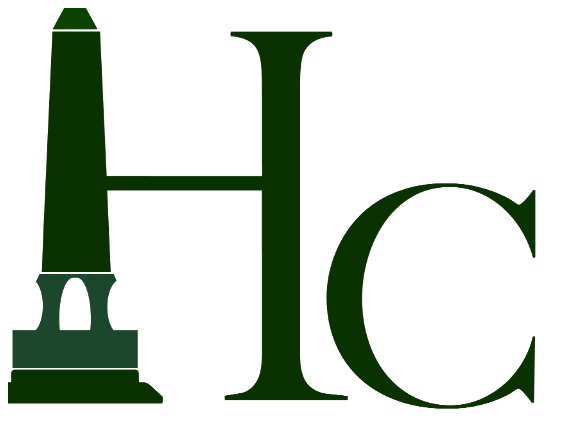
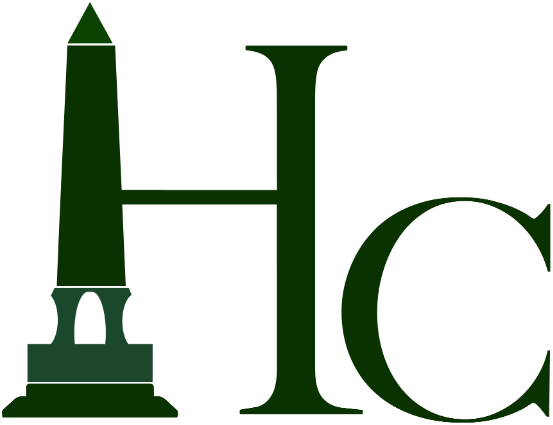
Fix transparent monogram asset

diff --git a/app/components/site/SiteHeader.tsx b/app/components/site/SiteHeader.tsx
@@ -83,7 +83,8 @@ export function SiteHeader({ sticky = true }: SiteHeaderProps) {
                 alt="Henderson Cemetery"
                 fill
                 sizes="(min-width: 640px) 79px, 53px"
-                className="object-contain mix-blend-multiply"
+                className="object-contain"
+                unoptimized
                 priority
               />
             </span>

diff --git a/app/components/site/SiteFooter.tsx b/app/components/site/SiteFooter.tsx
@@ -18,7 +18,8 @@ export function SiteFooter() {
               alt="Henderson Cemetery"
               fill
               sizes="92px"
-              className="object-contain mix-blend-multiply"
+              className="object-contain"
+              unoptimized
             />
           </Link>
           <div>
